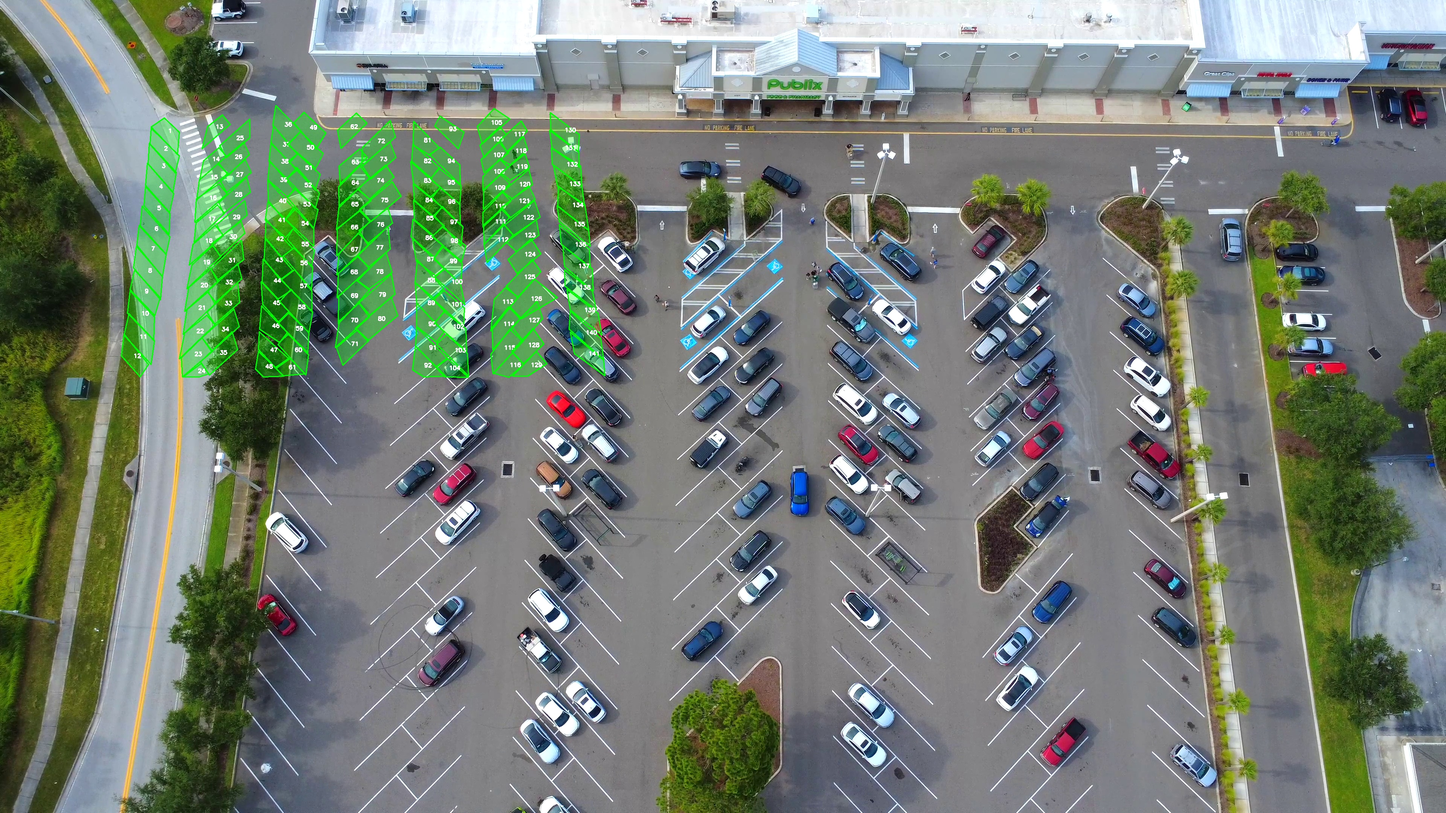
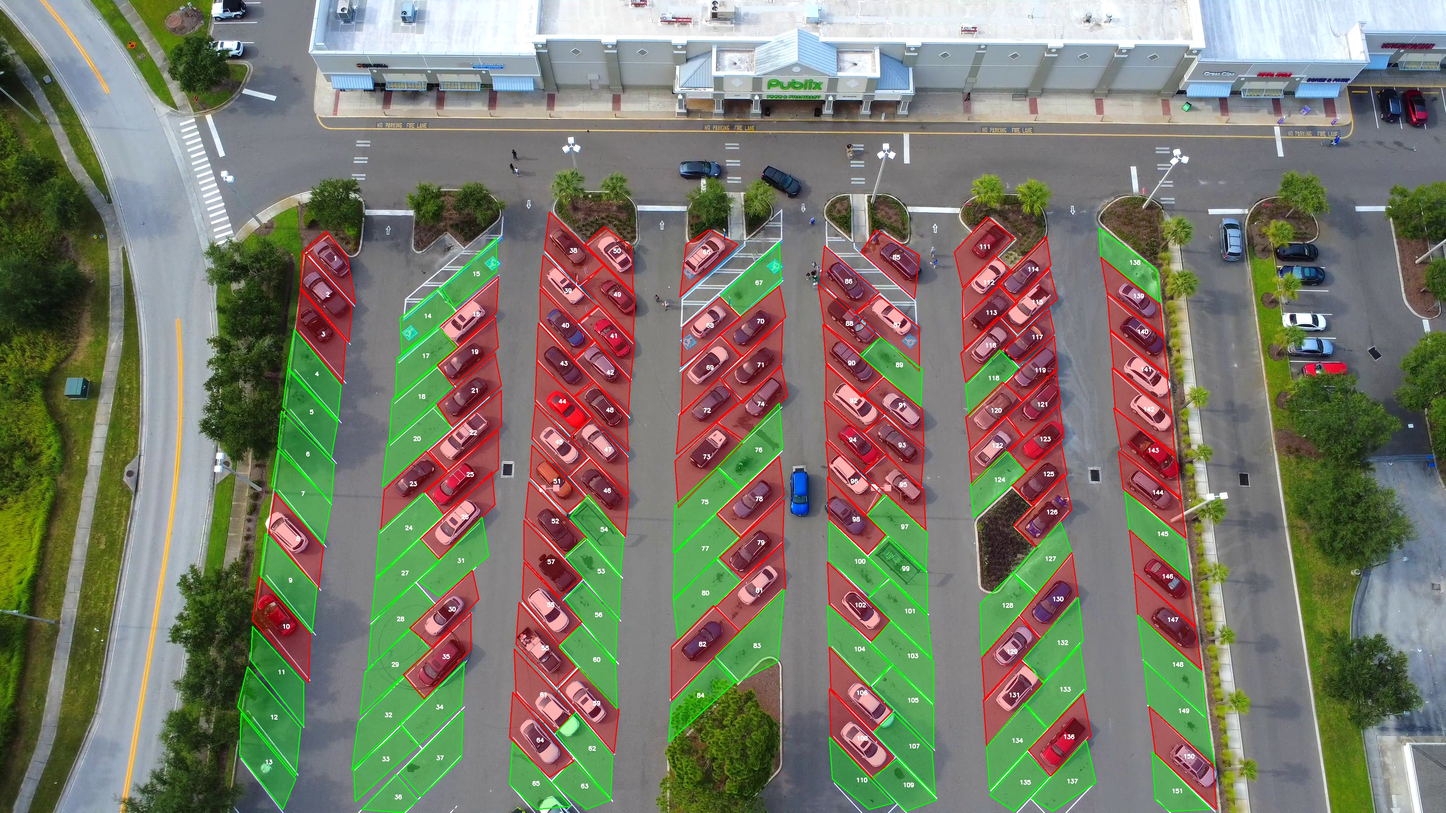
video is processed successfully

diff --git a/src/video_processor.py b/src/video_processor.py
@@ -1,5 +1,5 @@
 """
-Video processor: runs YOLO + IoU occupancy detection frame-by-frame.
+Video processor: runs YOLO11x + IoU occupancy detection frame-by-frame.
 Yields results as a generator so Flask can stream them via SSE.
 """
 
@@ -13,36 +13,14 @@ from src.slot_utils import load_slots
 from src.visualize import draw_results
 from src.analytics_db import save_frame_data
 
-car_detector = CarDetector("models/yolov8n.pt")
+car_detector = CarDetector("models/yolo11x.pt")
 
 FRAMES_DIR = "static/frames"
-MAX_DIM    = 1280   # resize longest side to this before YOLO (keeps aspect ratio)
-
-
-def _resize_for_inference(frame):
-    """Resize frame so longest side = MAX_DIM, preserving aspect ratio."""
-    h, w = frame.shape[:2]
-    if max(h, w) <= MAX_DIM:
-        return frame, 1.0
-    scale = MAX_DIM / max(h, w)
-    new_w = int(w * scale)
-    new_h = int(h * scale)
-    return cv2.resize(frame, (new_w, new_h)), scale
-
-
-def _scale_boxes(boxes, scale):
-    """Scale bounding boxes back to original frame coordinates."""
-    if scale == 1.0:
-        return boxes
-    inv = 1.0 / scale
-    return [(int(x1*inv), int(y1*inv), int(x2*inv), int(y2*inv))
-            for (x1, y1, x2, y2) in boxes]
 
 
 def process_video_stream(video_path, slot_path):
     """
     Generator that processes a video frame-by-frame and yields SSE events.
-    Each yield is a JSON string with one frame's result.
 
     Yields:
         str — SSE-formatted data line, e.g. 'data: {...}\\n\\n'
@@ -66,10 +44,9 @@ def process_video_stream(video_path, slot_path):
     total_frames = int(cap.get(cv2.CAP_PROP_FRAME_COUNT))
     fps          = cap.get(cv2.CAP_PROP_FPS) or 30
 
-    # Adaptive frame_skip: aim for ~20 processed frames regardless of video length
+    # Aim for ~20 processed frames regardless of video length
     frame_skip = max(1, total_frames // 20)
 
-    # Send metadata first
     yield f'data: {json.dumps({"type":"meta","total_frames":total_frames,"fps":fps,"frame_skip":frame_skip,"total_slots":total_slots})}\n\n'
 
     frame_num = 0
@@ -84,39 +61,24 @@ def process_video_stream(video_path, slot_path):
             frame_num += 1
             continue
 
-        # Resize for fast YOLO inference
-        small, scale = _resize_for_inference(frame)
-        boxes_small  = car_detector.detect(small)
-        boxes        = _scale_boxes(boxes_small, scale)
-
+        # YOLO11x with imgsz=1920 handles high-res frames internally
+        boxes       = car_detector.detect(frame)
         predictions = occupancy_detector.predict(boxes)
-        occupied    = sum(predictions.values())
-        vacant      = total_slots - occupied
-        rate        = round((occupied / total_slots) * 100, 1) if total_slots else 0
 
-        # Draw on original-size frame
+        occupied = sum(predictions.values())
+        vacant   = total_slots - occupied
+        rate     = round((occupied / total_slots) * 100, 1) if total_slots else 0
+
         annotated  = draw_results(frame, slots, predictions)
         frame_file = f"frame_{processed:04d}.jpg"
-        frame_path = os.path.join(FRAMES_DIR, frame_file)
-        cv2.imwrite(frame_path, annotated)
+        cv2.imwrite(os.path.join(FRAMES_DIR, frame_file), annotated)
 
         save_frame_data(processed, vacant)
 
-        result = {
-            "type":           "frame",
-            "frame":          processed,
-            "occupied":       occupied,
-            "vacant":         vacant,
-            "total":          total_slots,
-            "occupancy_rate": rate,
-            "image_url":      f"/static/frames/{frame_file}"
-        }
-        yield f'data: {json.dumps(result)}\n\n'
+        yield f'data: {json.dumps({"type":"frame","frame":processed,"occupied":occupied,"vacant":vacant,"total":total_slots,"occupancy_rate":rate,"image_url":f"/static/frames/{frame_file}"})}\n\n'
 
         frame_num += 1
         processed += 1
 
     cap.release()
-
-    # Send done signal
     yield f'data: {json.dumps({"type":"done","processed":processed})}\n\n'

diff --git a/app.py b/app.py
@@ -31,7 +31,7 @@ os.makedirs(app.config['UPLOAD_FOLDER'], exist_ok=True)
 os.makedirs("data/slots", exist_ok=True)
 os.makedirs("static/frames", exist_ok=True)
 
-car_detector = CarDetector("models/yolov8n.pt")
+car_detector = CarDetector("models/yolo11x.pt")
 
 ALLOWED_IMAGE = {'png', 'jpg', 'jpeg'}
 ALLOWED_VIDEO = {'mp4', 'avi', 'mov', 'mkv'}
@@ -46,8 +46,29 @@ def file_ext(filename):
     return filename.rsplit('.', 1)[-1].lower() if '.' in filename else ''
 
 
+def normalise_name(name):
+    """Normalise a lot/file name: strip, lowercase, replace spaces with underscores."""
+    return name.strip().lower().replace(' ', '_')
+
+
 def slot_path_for(stem):
     return f"data/slots/{stem}.json"
+
+
+def find_slot_file(name):
+    """
+    Robustly find a slot JSON file for a given name.
+    Tries: exact name, normalised name, original-filename stem.
+    Returns the path if found, else None.
+    """
+    candidates = [
+        slot_path_for(name),
+        slot_path_for(normalise_name(name)),
+    ]
+    for path in candidates:
+        if os.path.exists(path):
+            return path
+    return None
 
 
 def get_db():
@@ -84,9 +105,11 @@ def save_slots_route():
     if not polygons:
         return jsonify({"success": False, "error": "No slots provided"}), 400
 
+    # Normalise: spaces → underscores so filenames always match
+    lot_name = normalise_name(lot_name)
     path = slot_path_for(lot_name)
     save_slots(path, polygons)
-    return jsonify({"success": True, "saved": len(polygons), "path": path})
+    return jsonify({"success": True, "saved": len(polygons), "path": path, "lot_name": lot_name})
 
 
 @app.route("/get_slots/<lot_name>")
@@ -110,7 +133,8 @@ def upload():
         if not file or file.filename == "":
             return jsonify({"success": False, "error": "No file uploaded"}), 400
 
-        filename = secure_filename(file.filename)
+        original_filename = file.filename                        # preserve before save
+        filename = secure_filename(original_filename)
         ext      = file_ext(filename)
 
         if ext not in ALLOWED_ALL:
@@ -122,15 +146,19 @@ def upload():
         # lot_name is sent by the frontend when the user typed a name in the
         # "New Parking Lot" field.  If absent, fall back to the image stem.
         lot_name = (request.form.get("lot_name") or "").strip()
-        stem     = filename.rsplit('.', 1)[0]
+        stem          = filename.rsplit('.', 1)[0]           # secure stem
+        original_stem = original_filename.rsplit('.', 1)[0]  # original stem (may have spaces)
 
-        # Priority: explicit lot_name → image stem → UFPR04 default
-        if lot_name and os.path.exists(slot_path_for(lot_name)):
-            use_slots = slot_path_for(lot_name)
-        elif os.path.exists(slot_path_for(stem)):
-            use_slots = slot_path_for(stem)
+        # Priority: explicit lot_name → secure stem → original stem → UFPR04 default
+        # find_slot_file tries both exact and normalised (spaces→underscores) variants
+        if lot_name:
+            use_slots = find_slot_file(lot_name) or DEFAULT_SLOTS
         else:
-            use_slots = DEFAULT_SLOTS
+            use_slots = (
+                find_slot_file(stem) or
+                find_slot_file(original_stem) or
+                DEFAULT_SLOTS
+            )
 
         if ext in ALLOWED_IMAGE:
             return _detect_image(filepath, use_slots)

diff --git a/src/detect_cars.py b/src/detect_cars.py
@@ -3,31 +3,29 @@ from ultralytics import YOLO
 
 class CarDetector:
     """
-    YOLOv8-based vehicle detector.
+    YOLO11x-based vehicle detector with high-resolution inference.
 
-    For standard side/front-view images, filters by vehicle COCO classes.
-    For aerial/top-down parking lot images, YOLO often misclassifies cars as
-    other objects (cell phone, bottle, etc.) due to the top-down perspective.
-    The OccupancyDetector handles this by using slot-first IoU matching —
-    any detection that significantly overlaps a slot is treated as a vehicle.
+    Uses imgsz=1920 to preserve detail in aerial/top-down parking lot images
+    where cars appear small relative to the full frame. Returns ALL detections
+    regardless of class — the OccupancyDetector uses slot-IoU to decide
+    occupancy, which handles aerial misclassification (cars detected as
+    cell phones, bottles, etc.) automatically.
     """
 
-    # COCO vehicle classes (car, bus, truck, motorcycle)
-    VEHICLE_CLASSES = {2, 3, 5, 7}
-
-    def __init__(self, model_path, conf=0.25):
+    def __init__(self, model_path, conf=0.1, imgsz=1920):
         self.model = YOLO(model_path)
         self.conf  = conf
+        self.imgsz = imgsz
 
     def detect(self, img):
         """
-        Return ALL detections above confidence threshold.
-        Returns list of (x1, y1, x2, y2, class_id, confidence).
-        The occupancy detector decides which ones overlap slots.
+        Run inference and return all bounding boxes above confidence threshold.
+
+        Args:
+            img: numpy array (BGR)
+
+        Returns:
+            list of (x1, y1, x2, y2) int tuples
         """
-        results = self.model(img, verbose=False, conf=self.conf)[0]
-        boxes   = []
-        for box, cls, conf in zip(results.boxes.xyxy, results.boxes.cls, results.boxes.conf):
-            x1, y1, x2, y2 = map(int, box.tolist())
-            boxes.append((x1, y1, x2, y2))
-        return boxes
+        results = self.model(img, verbose=False, conf=self.conf, imgsz=self.imgsz)[0]
+        return [tuple(map(int, box.tolist())) for box in results.boxes.xyxy]
